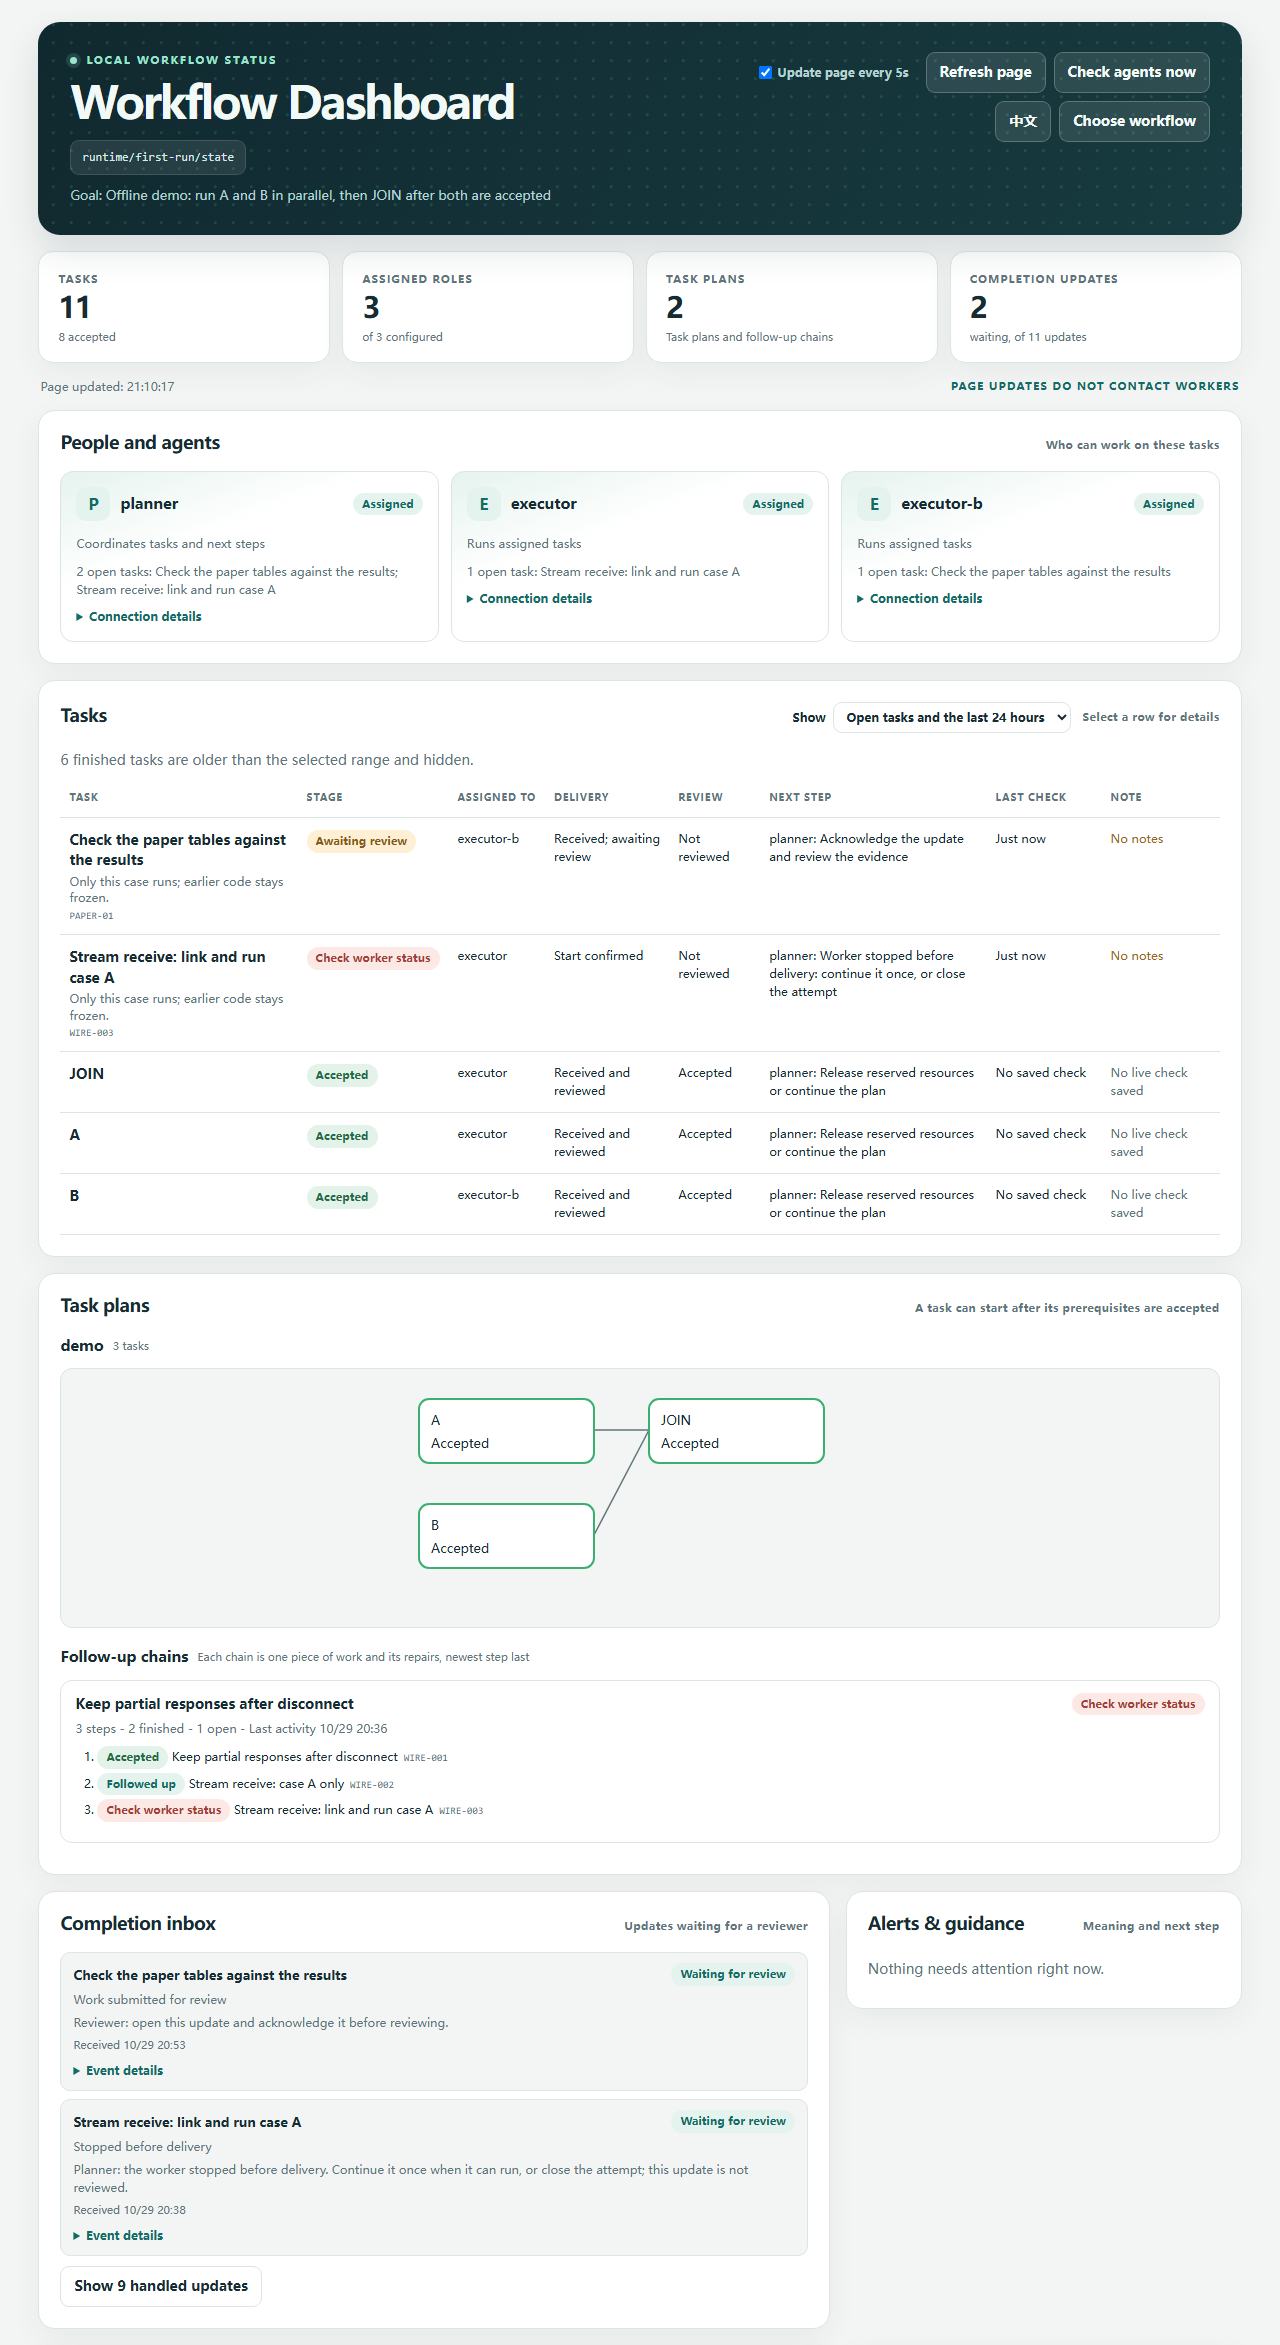
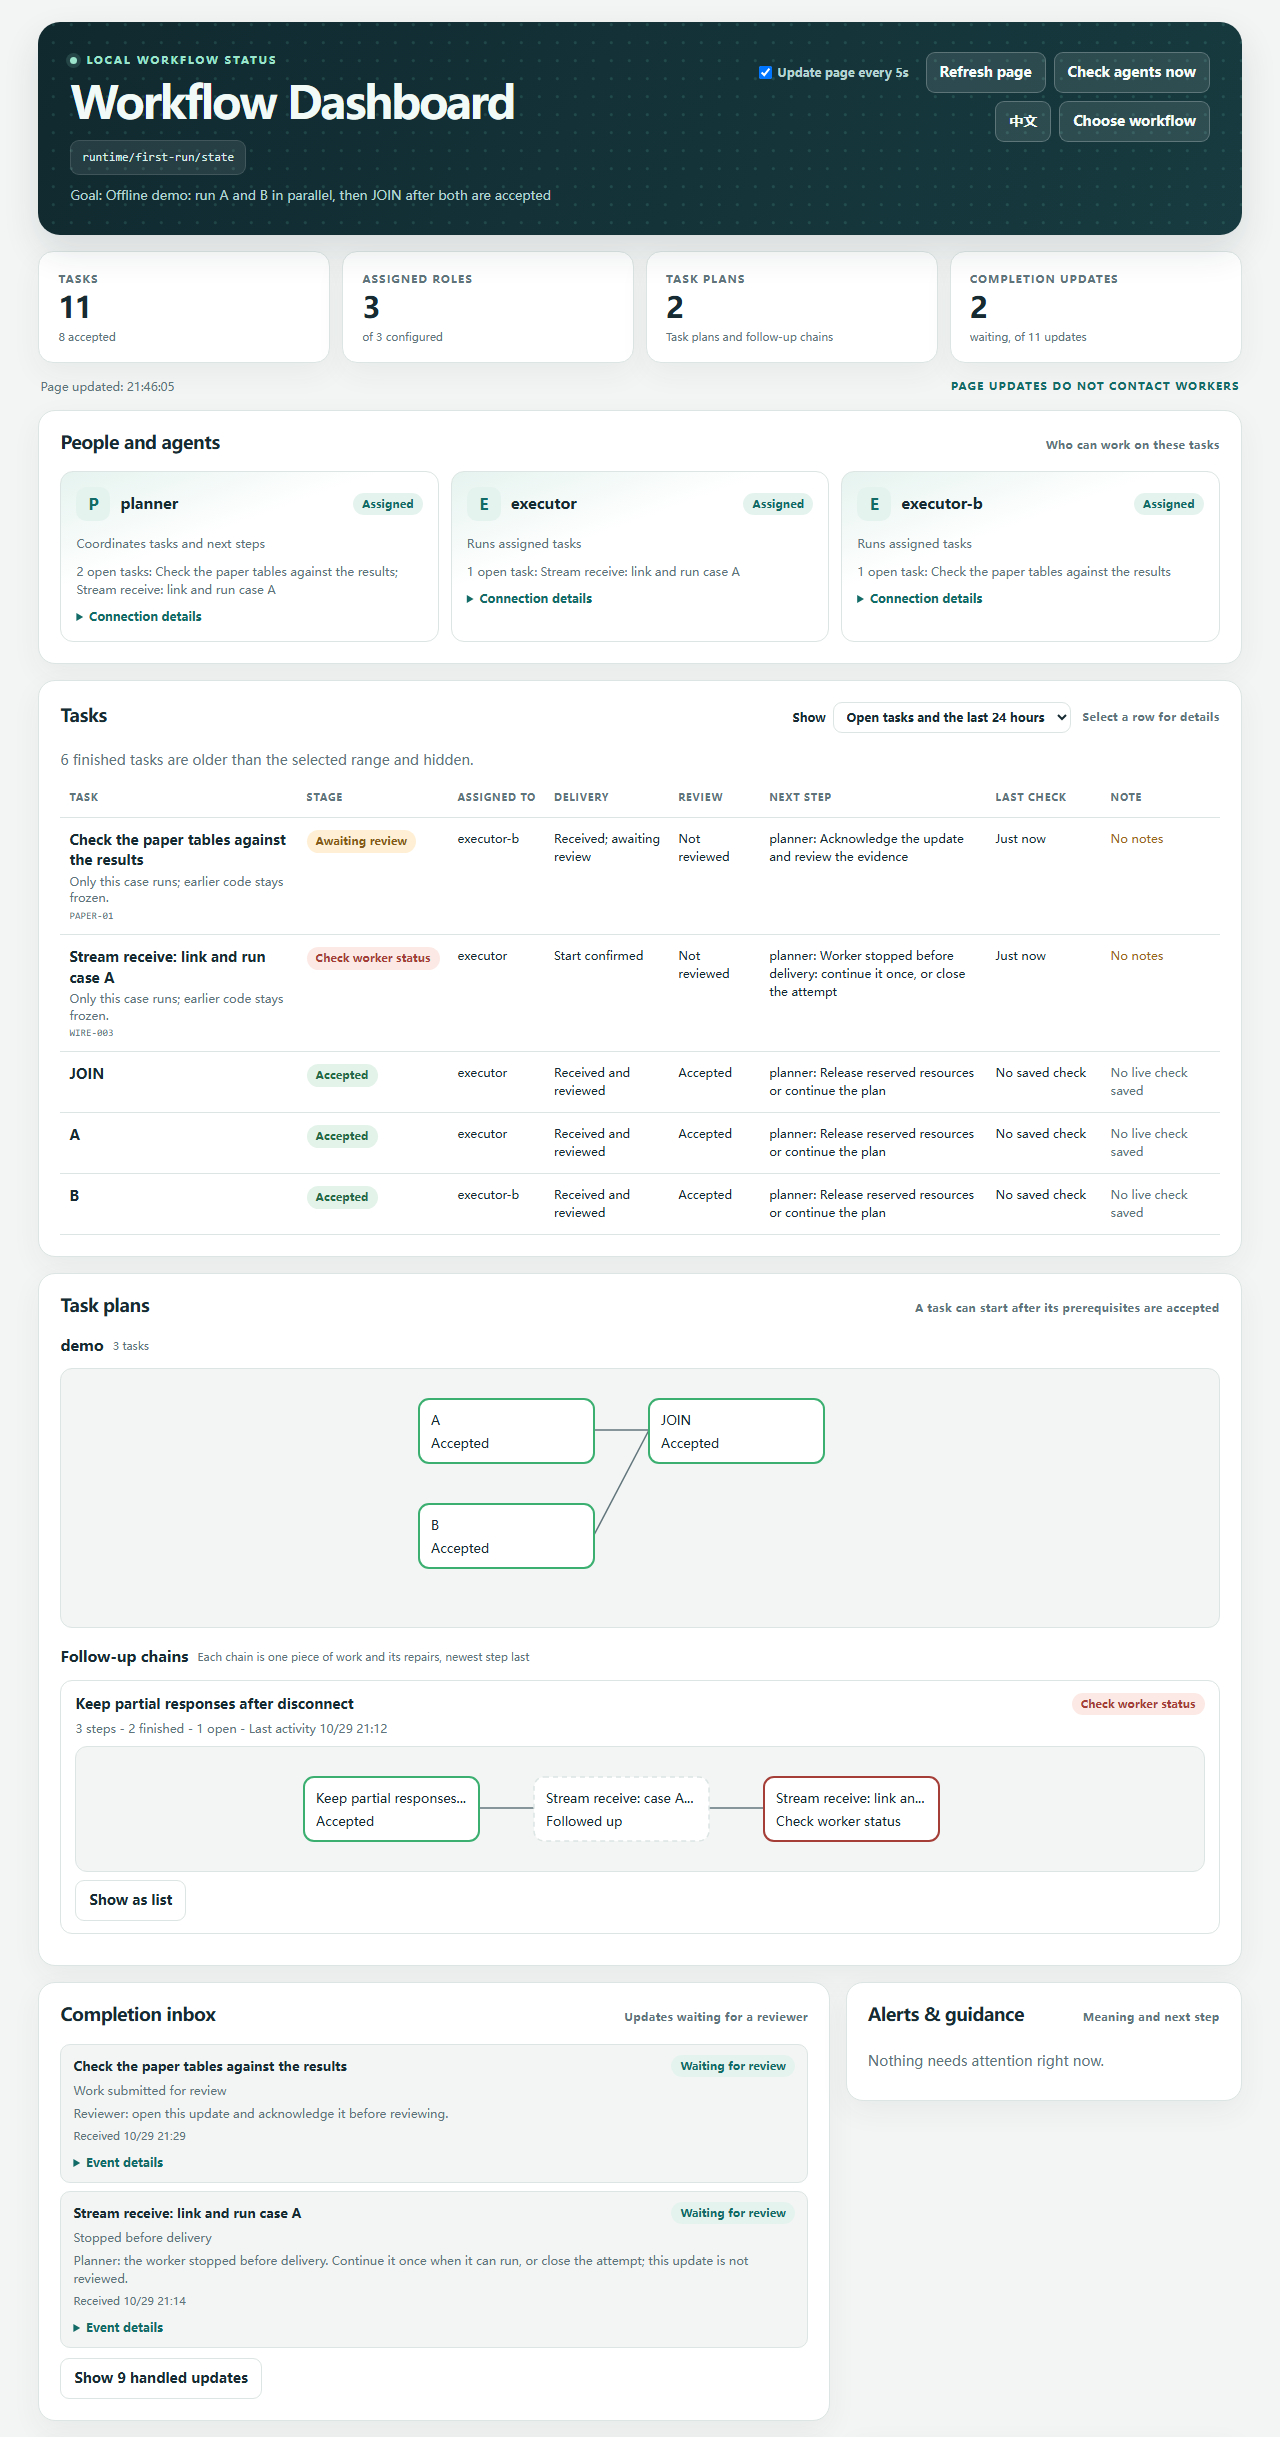
feat(dashboard): optional graph view for follow-up chains
Each chain card can switch between the step list and boxes and arrows.
The graph shows the same steps as the list (latest 5, or all), folds
earlier steps into one box, colours steps by status, and scrolls so the
newest step stays visible. DAG plans share the same drawing code. The
README screenshot shows a chain in graph view.

diff --git a/scripts/dashboard.py b/scripts/dashboard.py
@@ -341,6 +341,10 @@ svg { display:block; max-width:none; height:auto; margin:auto } svg text { font:
 svg line { stroke:var(--muted); stroke-width:1.5 } svg rect { fill:var(--surface); stroke:var(--line); stroke-width:1.5 }
 svg rect.accepted { stroke:#3baf70; stroke-width:2 } svg rect.executing { stroke:#478cd7; stroke-width:2 }
 svg rect.scheduling_blocked,svg rect.review_blocked { stroke:var(--warn); stroke-width:2 }
+svg rect.awaiting_review,svg rect.under_review,svg rect.execution_unconfirmed { stroke:var(--warn); stroke-width:2 }
+svg rect.needs_inspection,svg rect.failed { stroke:var(--danger); stroke-width:2 }
+svg rect.followed_up,svg rect.closed,svg rect.folded { stroke-dasharray:5 4 }
+.chain-actions { margin-top:8px }
 .list { display:grid; gap:8px } .list-item { padding:9px 0; border-bottom:1px solid var(--line); overflow-wrap:anywhere }
 .event-item,.alert-item { min-width:0; padding:10px 12px; border:1px solid var(--line); border-radius:10px;
   background:var(--bg) } .event-head { display:flex; justify-content:space-between; align-items:center; gap:8px }
@@ -620,7 +624,7 @@ code { font:13px ui-monospace,SFMono-Regular,Consolas,monospace }
     blocked_dependency:'Earlier task needs attention', blocked:'Needs attention', under_review:'Under review',
     running:'In progress', submitted:'Sent; start unconfirmed', reserved:'Send reserved', uncertain:'Send uncertain',
     not_sent:'Not sent', terminated:'Stopped', pending:'Waiting for review', acknowledged:'Review acknowledged',
-    reviewed:'Reviewed', followed_up:'Followed up'
+    reviewed:'Reviewed', followed_up:'Followed up', folded:'Folded'
   };
   const reviewNames = {accept:'Accepted', reject:'Rejected', repair:'Needs repair'};
   const nextNames = {
@@ -946,27 +950,49 @@ code { font:13px ui-monospace,SFMono-Regular,Consolas,monospace }
       const lastAt = Math.max(...steps.map(t => lastActivity(data, t.task_id)));
       if (lastAt) facts.push('Last activity ' + when(new Date(lastAt).toISOString()));
       add(card, 'p', 'chain-facts', facts.join(' - '));
-      const list = add(card, 'ol', 'chain-steps'), all = openKeys.has(key);
-      const shown = all ? steps : steps.slice(-5);
-      list.start = steps.length - shown.length + 1;
-      for (const t of shown) {
-        const item = add(list, 'li'); const phase = superseded(data, t) ? 'followed_up' : t.phase;
-        add(item, 'span', 'badge ' + phase, named(phase, stageNames));
-        add(item, 'span', 'raw', ' ' + taskName(data, t.task_id));
-        add(item, 'span', 'task-id', t.task_id);
+      const all = openKeys.has(key), asGraph = openKeys.has('graph:' + steps[0].task_id);
+      const shown = all ? steps : steps.slice(-5), hidden = steps.length - shown.length;
+      if (asGraph) {
+        // The same steps as the list, as boxes and arrows; earlier steps fold into one box.
+        const ids = new Set(shown.map(t => t.task_id)), nodes = {}, deps = {};
+        if (hidden) nodes.__earlier__ = 'folded';
+        for (const t of shown) {
+          nodes[t.task_id] = superseded(data, t) ? 'followed_up' : t.phase;
+          const parent = (data.task_details[t.task_id] || {}).parent_task;
+          deps[t.task_id] = ids.has(parent) ? [parent] : (hidden && parent ? ['__earlier__'] : []);
+        }
+        graphSvg(card, taskName(data, steps[0].task_id), nodes, deps,
+          name => name === '__earlier__' ? tr(hidden + ' earlier steps') : taskName(data, name), true);
+      } else {
+        const list = add(card, 'ol', 'chain-steps');
+        list.start = hidden + 1;
+        for (const t of shown) {
+          const item = add(list, 'li'); const phase = superseded(data, t) ? 'followed_up' : t.phase;
+          add(item, 'span', 'badge ' + phase, named(phase, stageNames));
+          add(item, 'span', 'raw', ' ' + taskName(data, t.task_id));
+          add(item, 'span', 'task-id', t.task_id);
+        }
       }
+      const actions = add(card, 'div', 'small-actions chain-actions');
+      const view = add(actions, 'button', '', asGraph ? 'Show as list' : 'Show as graph'); view.type = 'button';
+      view.addEventListener('click', () => { const g = 'graph:' + steps[0].task_id;
+        asGraph ? openKeys.delete(g) : openKeys.add(g); if (lastData) dagGraph(lastData); });
       if (steps.length > 5) {
-        const more = add(card, 'button', '', all ? 'Show only the latest 5 steps' : 'Show all ' + steps.length + ' steps');
+        const more = add(actions, 'button', '', all ? 'Show only the latest 5 steps' : 'Show all ' + steps.length + ' steps');
         more.type = 'button';
         more.addEventListener('click', () => { all ? openKeys.delete(key) : openKeys.add(key); if (lastData) dagGraph(lastData); });
       }
     }
   }
   function drawGraph(root, run, nodes, dependencies, label) {
+    const box = add(root, 'div', 'dag-run'); const title = add(box, 'div', 'dag-title');
+    add(title, 'h3', '', run); add(title, 'span', 'dag-count', Object.keys(nodes).length + ' tasks');
+    graphSvg(box, run, nodes, dependencies, label);
+  }
+  // Boxes and arrows for a frozen DAG plan or a follow-up chain; columns follow dependency depth.
+  function graphSvg(root, run, nodes, dependencies, label, compact = false) {
     {
       const dag = {nodes, dependencies};
-      const box = add(root, 'div', 'dag-run'); const title = add(box, 'div', 'dag-title');
-      add(title, 'h3', '', run); add(title, 'span', 'dag-count', Object.keys(dag.nodes).length + ' tasks');
       const levels = {}, visiting = new Set();
       const level = name => { if (levels[name] !== undefined) return levels[name];
         if (visiting.has(name)) return 0; visiting.add(name);
@@ -976,8 +1002,9 @@ code { font:13px ui-monospace,SFMono-Regular,Consolas,monospace }
       Object.keys(dag.nodes).forEach(level);
       const groups = []; for (const name of Object.keys(dag.nodes)) (groups[levels[name]] ||= []).push(name);
       const width = Math.max(300, groups.length * 230 + 30);
-      const height = Math.max(130, Math.max(...groups.map(g => g.length)) * 105 + 24);
-      const wrap = add(box, 'div', 'dag-scroll'); const svg = svgEl('svg');
+      const rows = Math.max(...groups.map(g => g.length));
+      const height = compact ? rows * 105 - 5 : Math.max(130, rows * 105 + 24);
+      const wrap = add(root, 'div', 'dag-scroll'); const svg = svgEl('svg');
       svg.setAttribute('viewBox', '0 0 ' + width + ' ' + height); svg.setAttribute('role', 'img');
       svg.style.width = width + 'px'; svg.style.height = height + 'px';
       svg.setAttribute('aria-label', 'Dependency graph for ' + run); wrap.append(svg);
@@ -997,8 +1024,11 @@ code { font:13px ui-monospace,SFMono-Regular,Consolas,monospace }
         const sub = svgEl('text'); sub.setAttribute('x', x + 12); sub.setAttribute('y', y + 49);
         sub.setAttribute('translate', 'no'); svg.append(sub);
         fitSvgText(sub, tr(named(state, {...stageNames, ...dagNames})));
-        const tip = svgEl('title'); tip.textContent = text + ' (' + name + '): ' + tr(named(state, stageNames)); rect.append(tip);
+        const tip = svgEl('title'); tip.textContent = name.startsWith('__') ? text :
+          text + ' (' + name + '): ' + tr(named(state, stageNames)); rect.append(tip);
       }
+      // A chain's newest step is rightmost; keep it in view when the graph is wider than the card.
+      if (compact) requestAnimationFrame(() => { wrap.scrollLeft = wrap.scrollWidth; });
     }
   }
   // Only updates that still need someone are listed; handled ones stay one click away.

diff --git a/docs/images/dashboard_shot.py b/docs/images/dashboard_shot.py
@@ -210,6 +210,11 @@ def main():
         time.sleep(3)
         # The state lives in a temporary folder; show the path a reader of the README would use.
         tools.call("Runtime.evaluate", expression="document.getElementById('state').textContent = 'runtime/first-run/state'")
+        # Show the follow-up chain as a graph, the view the README describes.
+        tools.call("Runtime.evaluate", expression=(
+            "[...document.querySelectorAll('.chain-actions button')].filter(b => b.textContent === 'Show as graph')"
+            ".forEach(b => b.click())"))
+        time.sleep(0.5)
         bottom = tools.call("Runtime.evaluate", returnByValue=True, expression=(
             "Math.round(Math.max(...[...document.querySelectorAll('#inbox, #alerts')]"
             ".map(e => e.closest('section').getBoundingClientRect().bottom)) + scrollY + 16)"))["result"]["value"]

diff --git a/scripts/test_dashboard.py b/scripts/test_dashboard.py
@@ -367,6 +367,7 @@ class DashboardTests(unittest.TestCase):
             self.assertTrue(target)
         self.assertIn('id="chat-panel"', html)
         self.assertIn('id="lang"', html)
+        self.assertIn("'Show as graph'", html)  # Chain cards can switch to boxes and arrows.
         for element in ('id="inbox-toggle"', 'id="inbox-history"', 'id="task-range"', 'id="dispatch-panel"'):
             self.assertIn(element, html)  # Handled updates and old tasks are folded, not dropped.
 

diff --git a/references/monitoring.md b/references/monitoring.md
@@ -90,7 +90,7 @@ Without `--state`, the page asks for a state directory and lists up to 10 recent
 
 The page reads the ledger without changing it or querying agents. It shows bindings, task phases and evidence, DAG dependencies, inbox events, resource claims, and alerts. Automatic refresh reads only the ledger; **Check workers now** explicitly makes bounded live status queries. The server checks its token, Host, and POST Origin; it uses a restrictive CSP and renders ledger text as text. Do not expose or forward the token URL.
 
-The task table shows open tasks and tasks finished in the last 24 hours by default; switch to 7 days or all tasks in its header, and the browser remembers the choice. Accepted, closed, and repaired tasks that already have a follow-up count as finished; open, waiting and blocked tasks always stay visible. Follow-ups linked by `parent_task` appear as chain cards, one per piece of work and its repairs, listing the latest 5 steps with an option to show all; a chain whose steps are all finished and older than the range is hidden. Titles come from the taskbook, then a `TASK.md` beside the deliverables or in the task folder, then the dispatch message; task IDs, nonces, hashes and absolute paths are removed from titles and summaries. The technical record shows history as time and event only, without producer hashes.
+The task table shows open tasks and tasks finished in the last 24 hours by default; switch to 7 days or all tasks in its header, and the browser remembers the choice. Accepted, closed, and repaired tasks that already have a follow-up count as finished; open, waiting and blocked tasks always stay visible. Follow-ups linked by `parent_task` appear as chain cards, one per piece of work and its repairs, listing the latest 5 steps with an option to show all; **Show as graph** draws the same steps as boxes and arrows, folding earlier steps into one box; a chain whose steps are all finished and older than the range is hidden. Titles come from the taskbook, then a `TASK.md` beside the deliverables or in the task folder, then the dispatch message; task IDs, nonces, hashes and absolute paths are removed from titles and summaries. The technical record shows history as time and event only, without producer hashes.
 
 To enable the form, add `--allow-dispatch --actor INSTANCE --version 1 --context main --tasks-root /absolute/tasks` with `--state` at startup; the state is then fixed. The actor must be the active controller and `main` is the operator's explicit declaration. Preview checks a live idle Worker and returns a task-bound request, nonce, message, and digest without writing files. Confirm rechecks the frozen preview and baseline, creates a new task directory, and delegates one send to `workflow_scheduler.dispatch`; uncertain sends are never retried. After an independent observation, write `EXECUTION.md` yourself and run the displayed `reconcile` command, then start the monitor.
 

diff --git a/references/monitoring.zh-CN.md b/references/monitoring.zh-CN.md
@@ -90,7 +90,7 @@ python -B scripts/dashboard.py --state /absolute/workflow-state
 
 页面只读台账，不改动它，也不自动查询 Agent；显示绑定、任务阶段与证据、DAG 依赖、收件箱事件、资源占用和告警。自动刷新只读台账；**Check workers now** 按钮才执行有超时的实时状态查询。服务校验令牌、Host 和 POST Origin，使用严格 CSP，并把台账文字作为文本渲染。不要外传带令牌地址。
 
-任务表默认只显示进行中的任务和最近 24 小时内结束的任务；可在表头切换为最近 7 天或全部，选择保存在浏览器中。已接收、已关闭，以及已有后续任务的返修任务算作已结束；进行中、待审核或受阻的任务始终显示。由 `parent_task` 连起来的后续任务显示为任务链卡片：每张卡片是一项工作及其返修，列出最近 5 步，可展开全部；整条链都已结束且早于所选范围时隐藏。标题优先取 taskbook，其次是交付文件旁或任务目录中的 `TASK.md`，最后是派发消息；任务 ID、nonce、哈希和绝对路径不会出现在标题和摘要中。技术记录中的经过只显示时间和事件，不显示执行者哈希。
+任务表默认只显示进行中的任务和最近 24 小时内结束的任务；可在表头切换为最近 7 天或全部，选择保存在浏览器中。已接收、已关闭，以及已有后续任务的返修任务算作已结束；进行中、待审核或受阻的任务始终显示。由 `parent_task` 连起来的后续任务显示为任务链卡片：每张卡片是一项工作及其返修，列出最近 5 步，可展开全部；“显示为连线图”把同样的步骤画成方框和箭头，更早的步骤折叠成一个方框；整条链都已结束且早于所选范围时隐藏。标题优先取 taskbook，其次是交付文件旁或任务目录中的 `TASK.md`，最后是派发消息；任务 ID、nonce、哈希和绝对路径不会出现在标题和摘要中。技术记录中的经过只显示时间和事件，不显示执行者哈希。
 
 要启用表单派发，启动时与 `--state` 一起增加 `--allow-dispatch --actor INSTANCE --version 1 --context main --tasks-root /absolute/tasks`；此时状态目录固定，不能切换。actor 必须是当前有效控制者；`main` 是操作者的明确声明。预览实时检查空闲 Worker，返回任务绑定请求、nonce、消息与摘要，不写文件。确认时重新检查预览和完成序列，创建新任务目录，并交给 `workflow_scheduler.dispatch` 单次发送；不自动重试不确定派发。独立确认执行后，由操作者自行编写 `EXECUTION.md` 并运行页面显示的 `reconcile` 命令，再启动监控。
 
